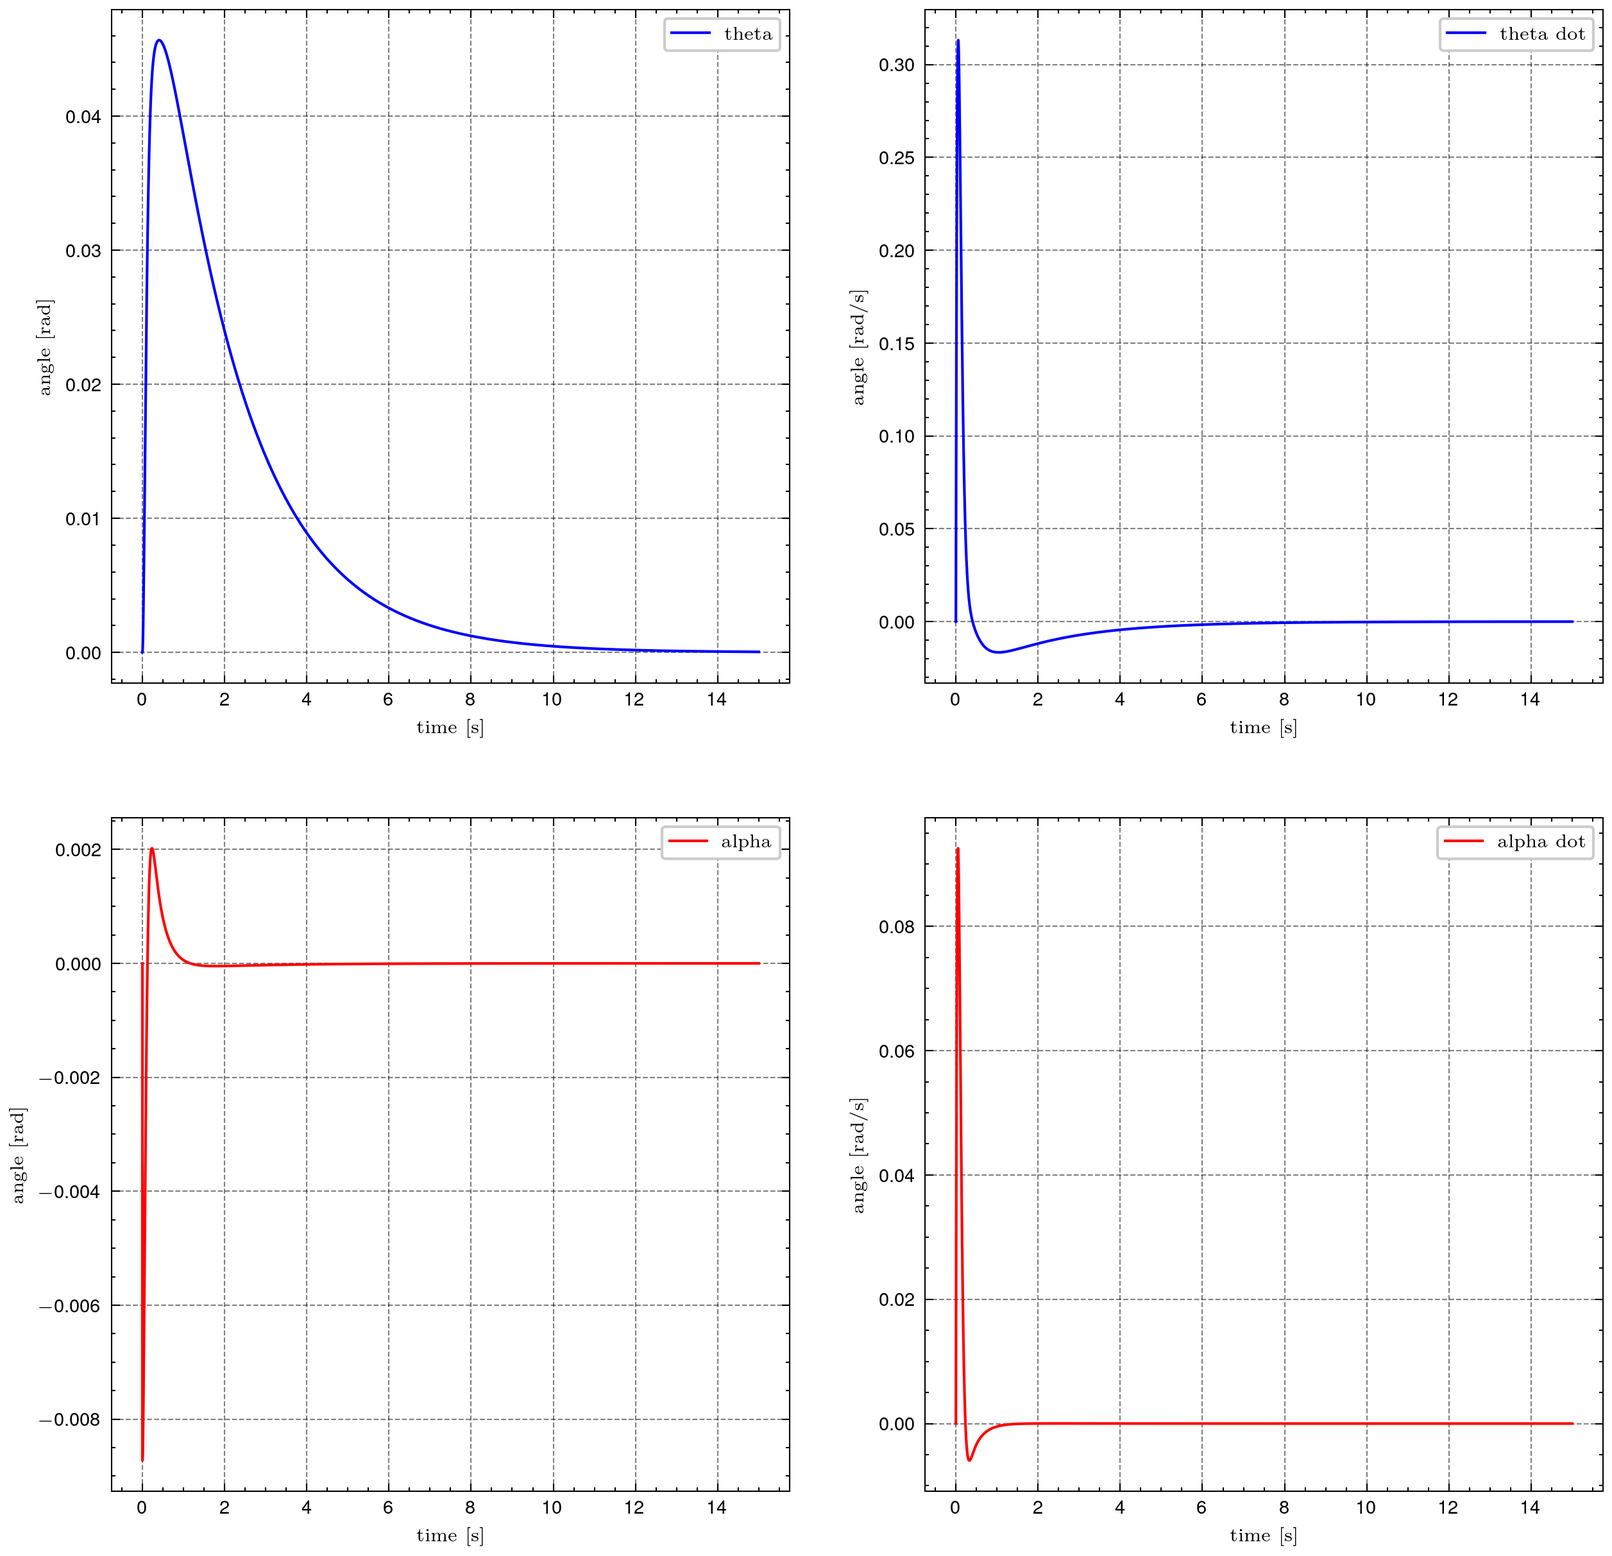
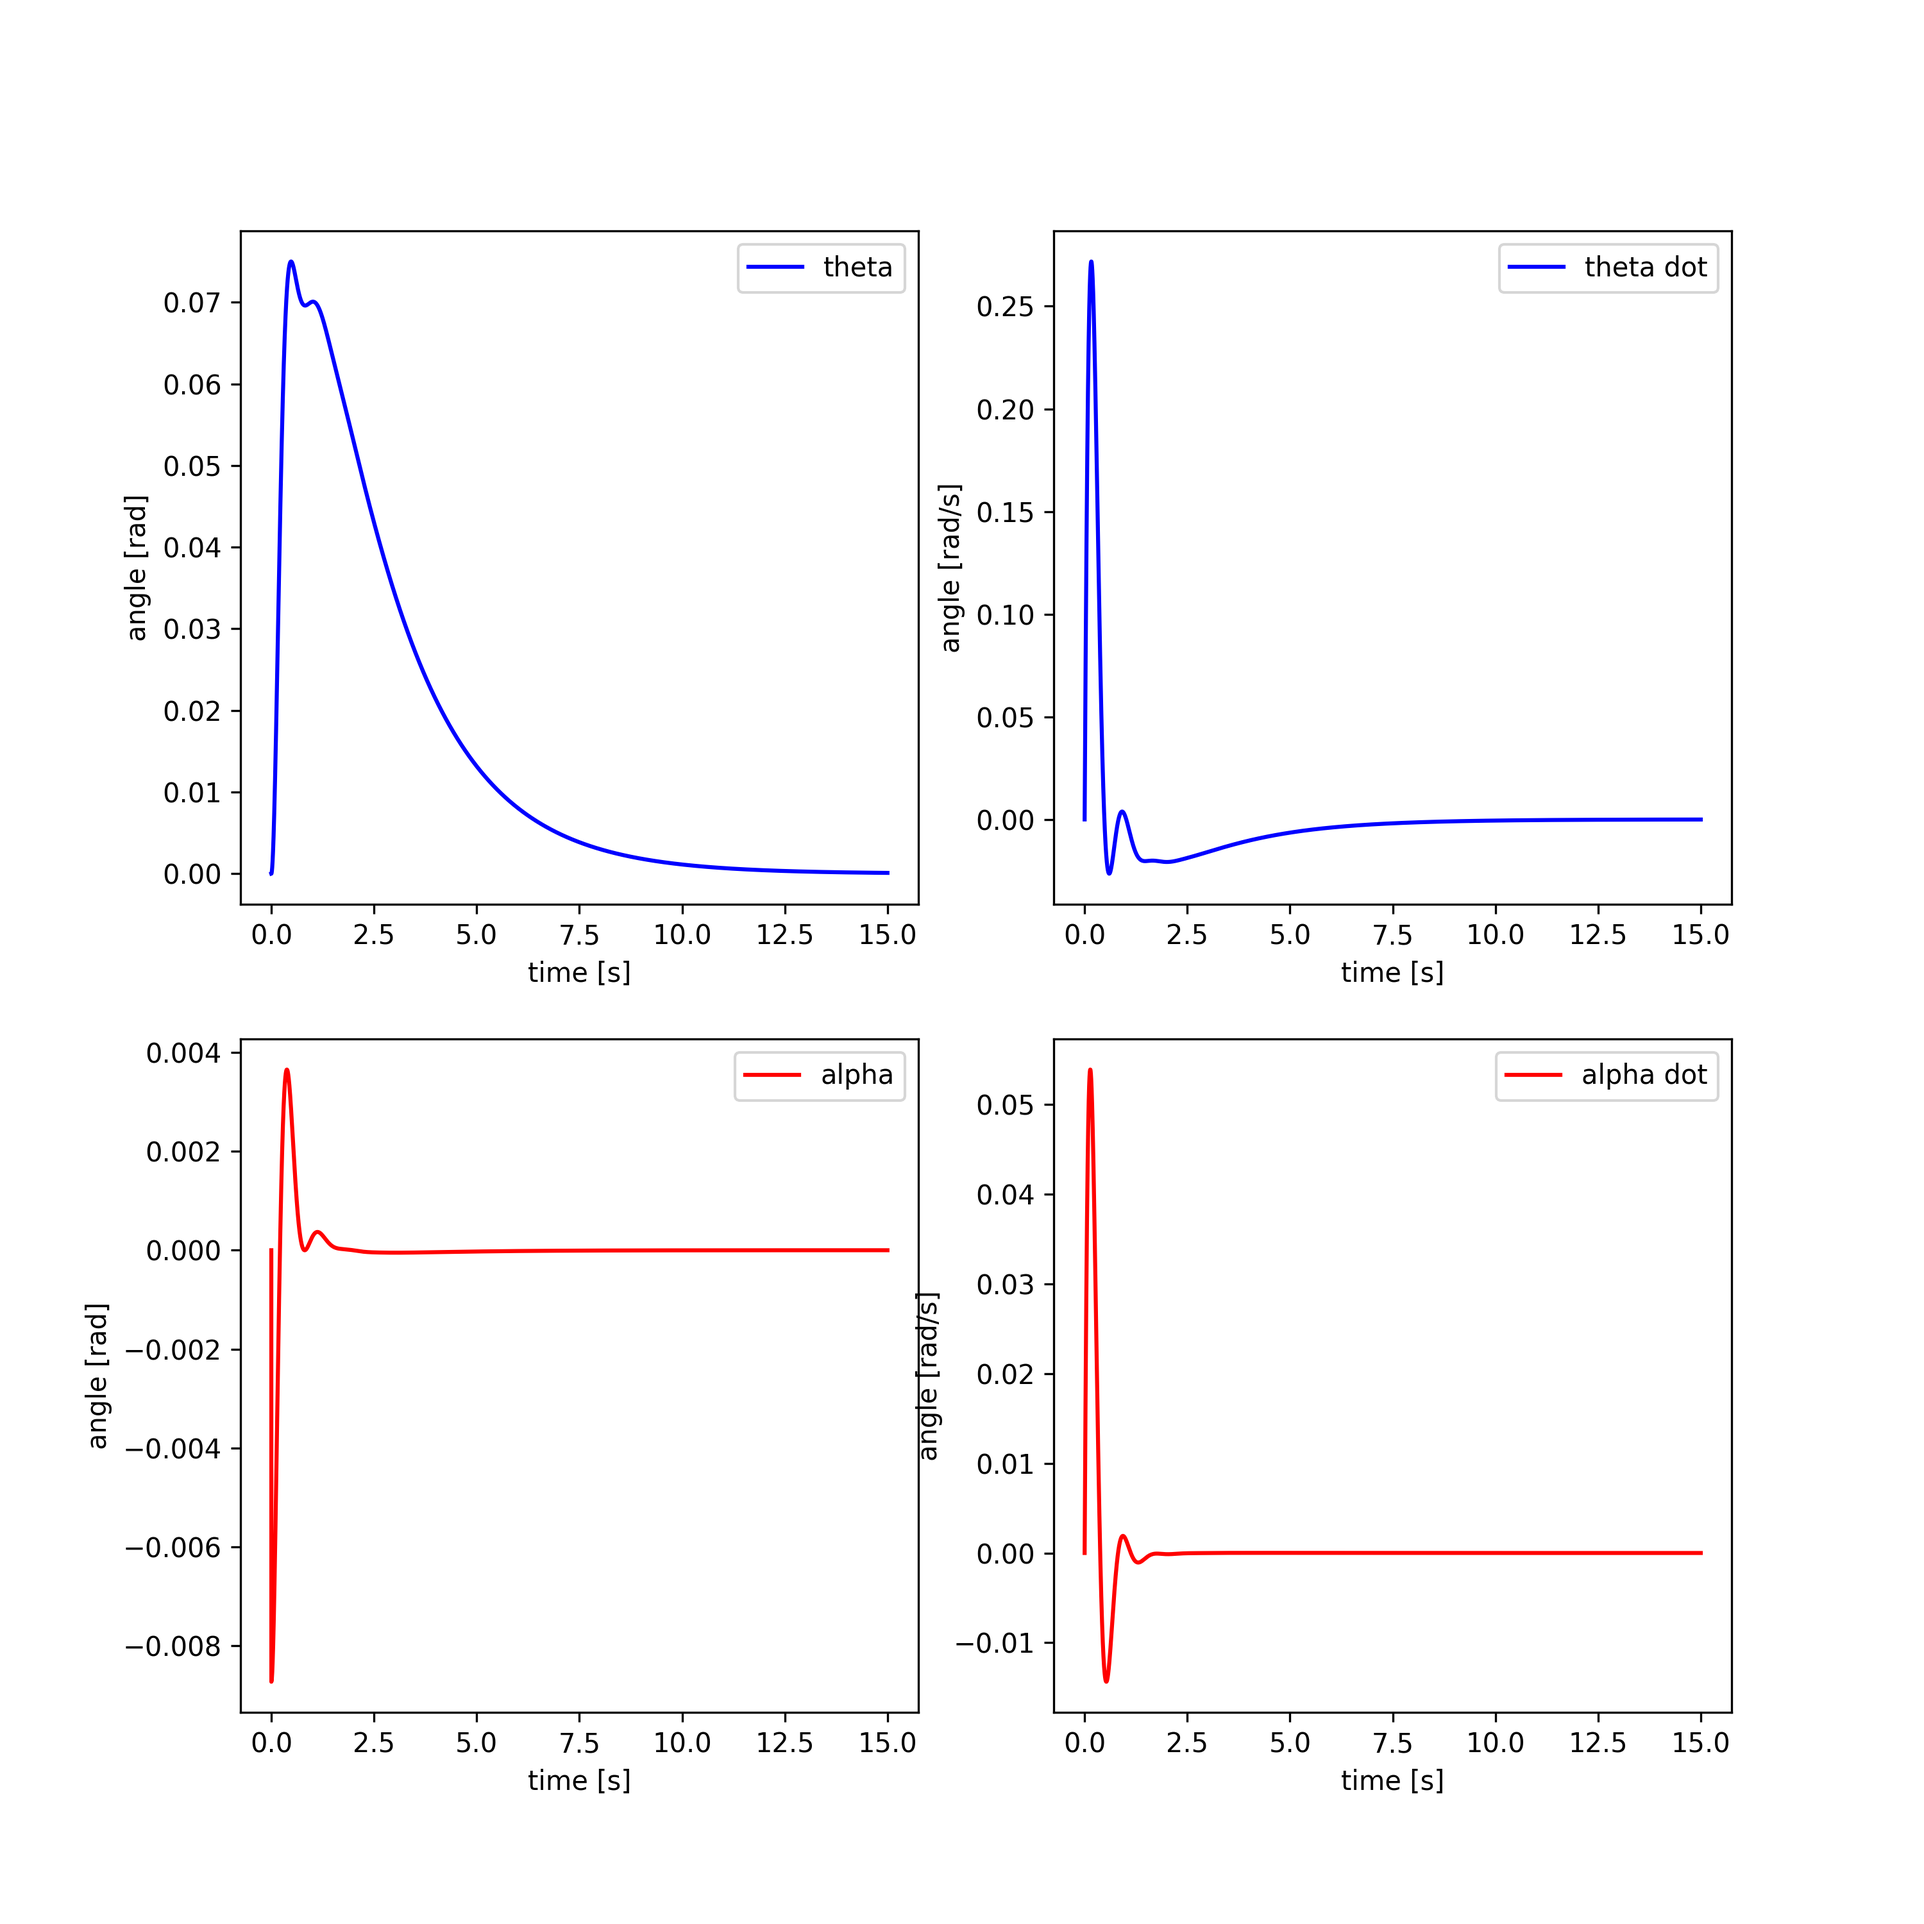
.

diff --git a/controller.py b/controller.py
@@ -16,22 +16,22 @@ constraints = [
   W @ A.T + A @ W + B @ Z + Z.T @ B.T << -np.eye(nu*n) * 1e-9,
 ]
 
-prob = cvx.Problem(
+def find_controller():
+  prob = cvx.Problem(
   cvx.Minimize(0),
   constraints
 )
 
-prob.solve(verbose=True, solver='MOSEK')
+  prob.solve(verbose=True, solver='CVXOPT')
 
-print(prob.status)
+  print(prob.status)
 
-W_arr = np.array(W.value)
-Z_arr = np.array(Z.value)
+  W_arr = np.array(W.value)
+  Z_arr = np.array(Z.value)
 
-np.save('./data/controller/W.npy', W_arr)
-np.save('./data/controller/Z.npy', Z_arr)
+  np.save('./data/controller/W.npy', W_arr)
+  np.save('./data/controller/Z.npy', Z_arr)
 
-K = Z_arr @ np.linalg.inv(W_arr)
-print(
-  K
-)
+  K = Z_arr @ np.linalg.inv(W_arr)
+
+  return K

diff --git a/main.py b/main.py
@@ -1,20 +1,13 @@
 import numpy as np
 import matplotlib.pyplot as plt
-from system import linear_space_system, controller
+from system import linear_space_system
+from controller import find_controller
 
-plt.style.use([
-  'science',
-  'nature',
-  'grid',
-])
-
-plt.rcParams["font.family"] = "FreeSerif, Regular"
-plt.rcParams['font.size'] = 12
 
 sine_signal = np.load('./data/sine_signal.npy')
 
 A, B, C, D = linear_space_system()
-K = controller()
+K = find_controller()
 
 initial_condition = np.array([
   [.0],

diff --git a/system.py b/system.py
@@ -1,6 +1,5 @@
 import numpy as np
 
-
 class Quantity:
   def __init__(self, value, unit):
     self.value = value
@@ -54,8 +53,3 @@ D = np.array([
 def linear_space_system():
   return A, B, C, D
 
-
-def controller():
-  return np.array([
-    [0.49188105], [-51.53686349], [1.1991295],  [-6.675676]
-  ]).T
